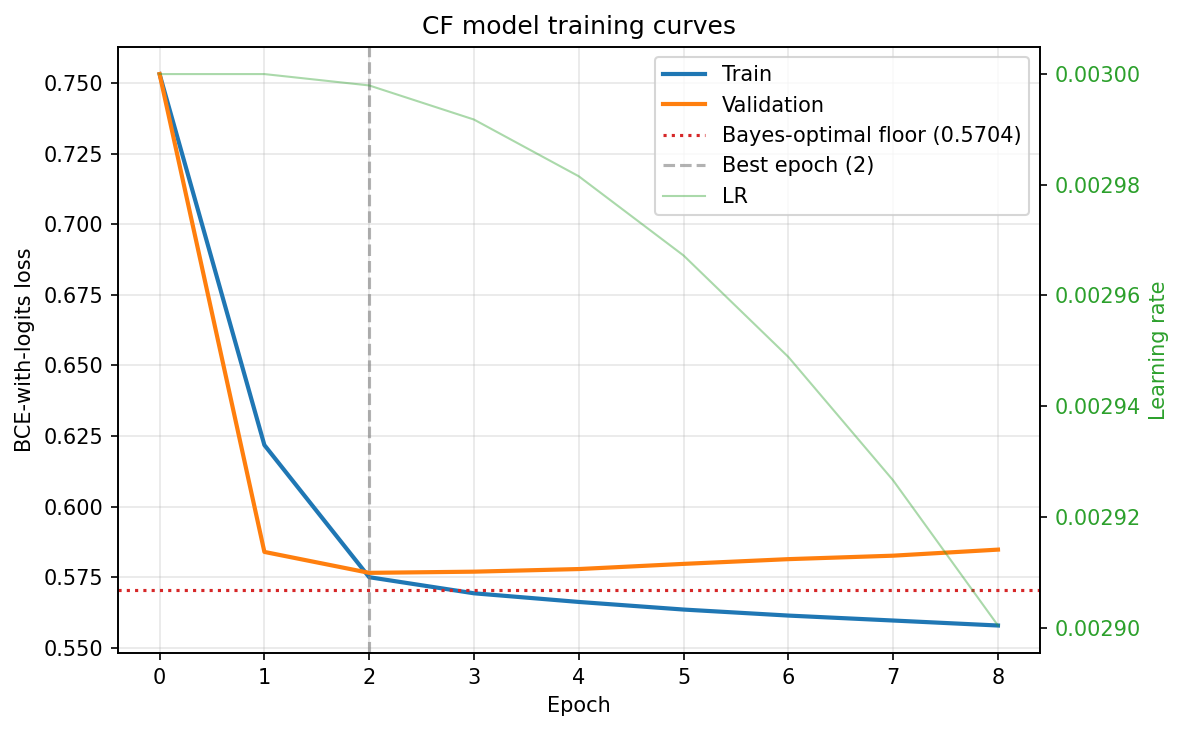
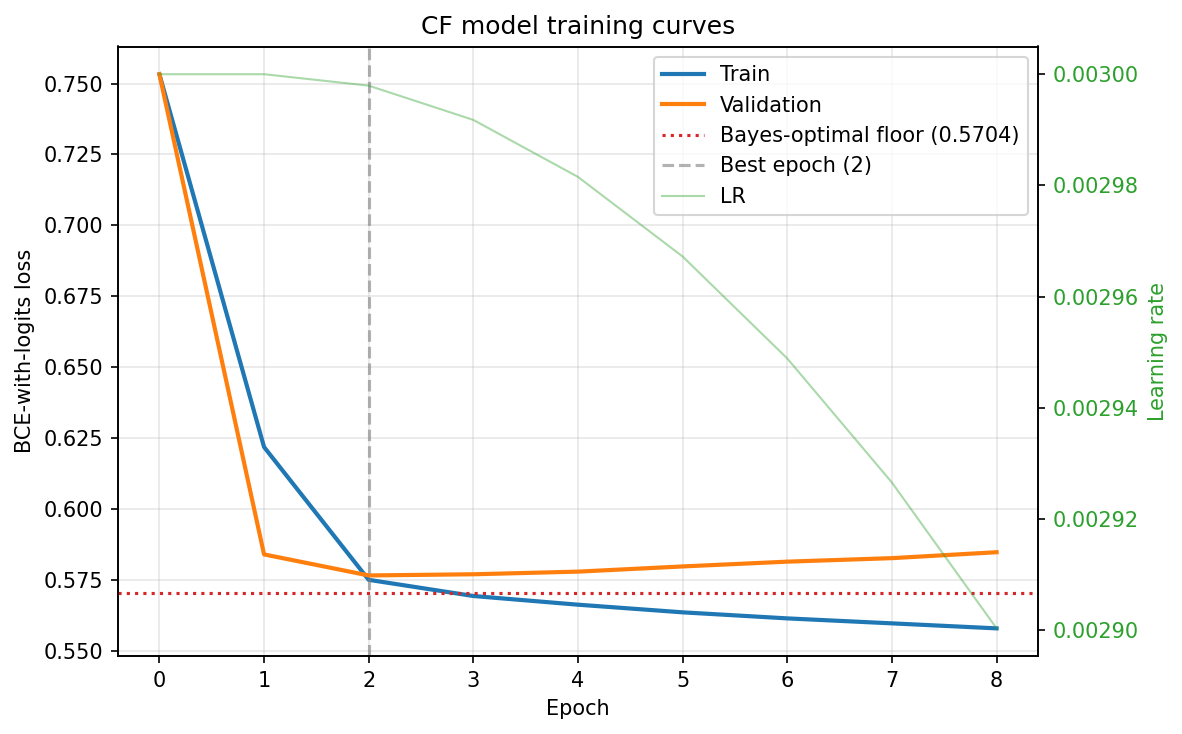
Wire Kaitlyn's ML inference API into checkins/auth; commit trained artifacts (TODO #1)

diff --git a/backend/routers/checkins.py b/backend/routers/checkins.py
@@ -10,10 +10,19 @@ from backend.dependencies import get_current_user, get_db
 from backend.models import db as models
 from backend.models.schemas import CheckinCreate, CheckinHistoryResponse, CheckinResponse
 from backend.ml import process_checkin, run_reevaluation, on_device_change
-from backend.ml.cf_model import get_user_embedding
-from backend.ml.features import encode_task
-from backend.ml.probe import get_beta_proxy
-from backend.ml.train import incremental_update
+
+try:
+    from ml.inference.inference_api import (
+        TaskFeatures,
+        get_user_state,
+        incremental_update_api,
+    )
+    _ML_AVAILABLE = True
+except Exception:
+    _ML_AVAILABLE = False
+
+_CATEGORY_INDEX = {"academic": 0, "exercise": 1, "work": 2, "personal": 3}
+_DEADLINE_INDEX = {"today": 0, "this_week": 1, "none": 2}
 
 logger = logging.getLogger(__name__)
 
@@ -36,26 +45,22 @@ def _apply_checkin_actions(user: models.User, actions, db: Session) -> None:
 
 def _refresh_cf_and_beta(user: models.User, task: models.Task, completed: float) -> None:
     """Best-effort CF embedding + beta probe refresh; failures are logged only."""
+    if not _ML_AVAILABLE or user.embedding_id is None:
+        return
     try:
         days_until = max(
             0,
             (task.planned_start - datetime.now(timezone.utc).replace(tzinfo=None)).days,
         )
-        task_features = encode_task(
-            category=task.category,
-            deadline_pressure=task.deadline_pressure,
-            difficulty=task.difficulty,
-            planned_duration=task.planned_duration,
-            days_until=days_until,
+        features = TaskFeatures(
+            difficulty=float(task.difficulty - 1) / 4.0,
+            category_index=_CATEGORY_INDEX.get(task.category, 0),
+            planned_duration_minutes=float(task.planned_duration),
+            days_until_planned_start=days_until,
+            deadline_pressure_index=_DEADLINE_INDEX.get(task.deadline_pressure, 2),
         )
-        incremental_update(
-            user_id=str(user.id),
-            task_features=task_features,
-            completed=completed,
-        )
-        embedding = get_user_embedding(str(user.id))
-        if embedding is not None:
-            user.beta_proxy = float(get_beta_proxy(embedding))
+        incremental_update_api(user.embedding_id, features, float(completed))
+        user.beta_proxy = get_user_state(user.embedding_id)
     except Exception as exc:
         logger.warning("CF/beta update failed for user %s: %s", user.id, exc)
 

diff --git a/backend/dependencies.py b/backend/dependencies.py
@@ -1,6 +1,12 @@
 import uuid
 
 import httpx
+
+try:
+    from ml.inference.inference_api import initialize_new_user as _init_user
+    _ML_AVAILABLE = True
+except Exception:
+    _ML_AVAILABLE = False
 from fastapi import Depends, HTTPException
 from fastapi.security import HTTPAuthorizationCredentials, HTTPBearer
 from sqlalchemy.orm import Session
@@ -43,7 +49,8 @@ def get_current_user(
 
     user = db.query(models.User).filter(models.User.id == uuid.UUID(user_id)).first()
     if user is None:
-        user = models.User(id=uuid.UUID(user_id), email=email)
+        embedding_id = _init_user() if _ML_AVAILABLE else None
+        user = models.User(id=uuid.UUID(user_id), email=email, embedding_id=embedding_id)
         db.add(user)
         db.commit()
         db.refresh(user)

diff --git a/backend/routers/auth.py b/backend/routers/auth.py
@@ -1,6 +1,12 @@
 import uuid
 
 import httpx
+
+try:
+    from ml.inference.inference_api import initialize_new_user as _init_user
+    _ML_AVAILABLE = True
+except Exception:
+    _ML_AVAILABLE = False
 from fastapi import APIRouter, Depends, HTTPException
 from sqlalchemy.orm import Session
 
@@ -35,7 +41,8 @@ def signup(body: SignupRequest, db: Session = Depends(get_db)):
     user_id = uuid.UUID(data["id"])
     existing = db.query(models.User).filter(models.User.id == user_id).first()
     if not existing:
-        db.add(models.User(id=user_id, email=body.email))
+        embedding_id = _init_user() if _ML_AVAILABLE else None
+        db.add(models.User(id=user_id, email=body.email, embedding_id=embedding_id))
         db.commit()
 
     # session is None until email is confirmed — return empty token in that case